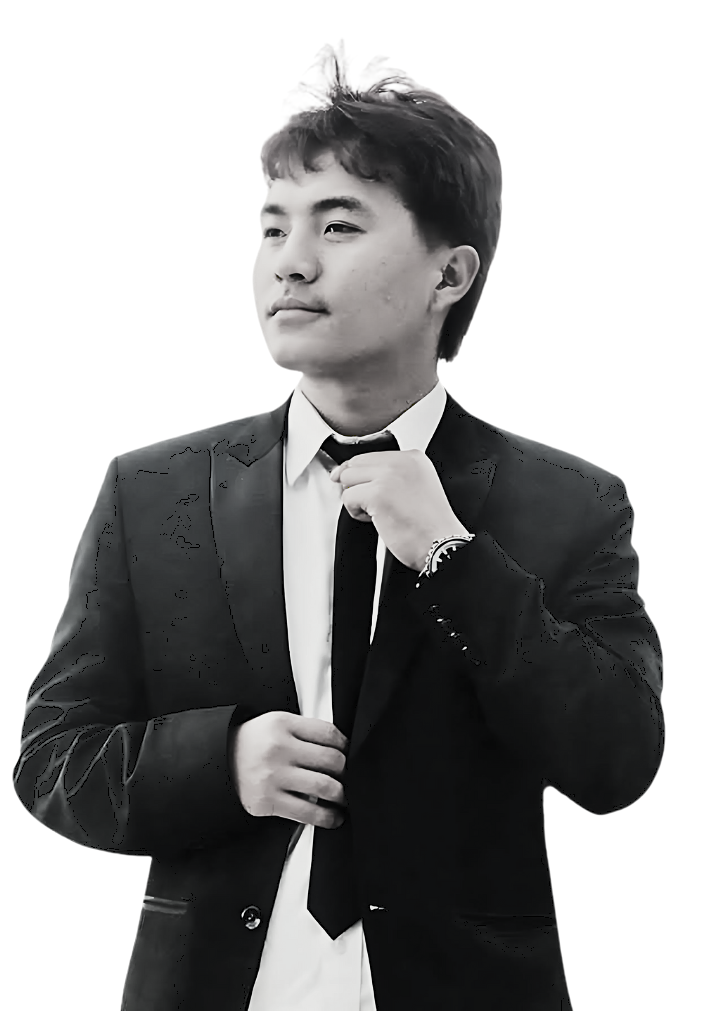
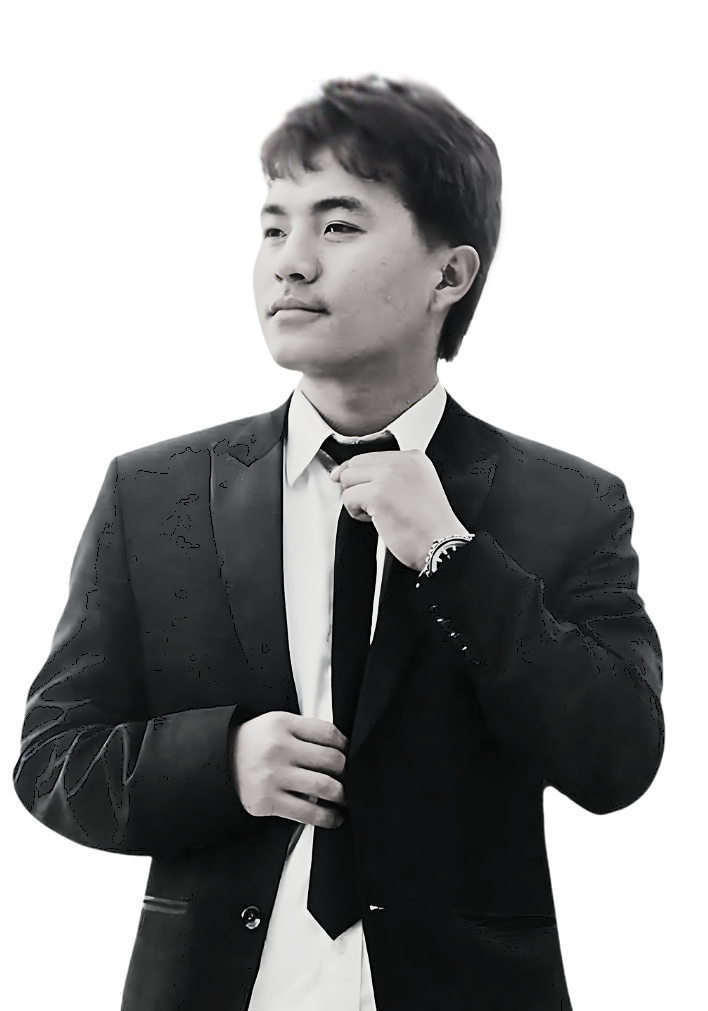
5th commit: Porject update

Changed region(s): [[0.3729, 0.0307, 0.6525, 0.1533]]

diff --git a/index.html b/index.html
@@ -53,7 +53,8 @@
     
     <section id="about" class="about">
         <h2>About Me</h2>
-        <p>I am a Multimedia Expert with expertise in video editing, graphic design, and web development. I hold a Bachelor's degree in Information Technology.</p>
+        <p>I’m a tech-savvy creative powerhouse with 5+ years of crafting stunning visuals as a Senior Video Editor & Graphics Designer. From cinematic edits and viral social media shorts to thumb-stopping thumbnails and sleek logos, I bring stories to life. Armed with a Bachelor’s in IT, I also code my way into front-end web development, merging creativity with tech to build visually stunning, user-friendly experiences. Let’s create something unforgettable!
+        </p>
     </section>
 
     <section id="services" class="services">
@@ -81,26 +82,35 @@
         <h2>My Projects</h2>
         <div class="portfolio-gallery">
             <div class="portfolio-item">
-                <img src="project1.jpg" alt="Project 1">
-                <div class="overlay">
-                    <h3>Project 1</h3>
-                    <p>A brief description of Project 1.</p>
+                <div class="video-container">
+                    <iframe width="322" height="322" src="https://www.youtube.com/embed/6ZLJTTmJ2_Y?si=FAd7ae-PwOffa9QM" title="YouTube video player" frameborder="0" allow="accelerometer; autoplay; clipboard-write; encrypted-media; gyroscope; picture-in-picture; web-share" referrerpolicy="strict-origin-when-cross-origin" allowfullscreen></iframe>
                 </div>
             </div>
             <div class="portfolio-item">
-                <img src="project2.jpg" alt="Project 2">
-                <div class="overlay">
-                    <h3>Project 2</h3>
-                    <p>A brief description of Project 2.</p>
+                <div class="video-container">
+                    <iframe width="322" height="322" src="https://www.youtube.com/embed/Rg9kbZoacsI?si=4lB_n5UB3RbUXuL1" title="YouTube video player" frameborder="0" allow="accelerometer; autoplay; clipboard-write; encrypted-media; gyroscope; picture-in-picture; web-share" referrerpolicy="strict-origin-when-cross-origin" allowfullscreen></iframe>
+                
                 </div>
+            </div> 
+            <div class="portfolio-item">
+                <div class="video-container">
+                    <iframe width="322" height="322" src="https://www.youtube.com/embed/cxGo8fi0o9k" title="YouTube video player" frameborder="0" allow="accelerometer; autoplay; clipboard-write; encrypted-media; gyroscope; picture-in-picture; web-share" referrerpolicy="strict-origin-when-cross-origin" allowfullscreen></iframe>
+                </div>
+                
             </div>
             <div class="portfolio-item">
-                <img src="project3.jpg" alt="Project 3">
-                <div class="overlay">
-                    <h3>Project 3</h3>
-                    <p>A brief description of Project 3.</p>
+                <div class="video-container">
+                    <iframe width="322" height="322" src="https://www.youtube.com/embed/y_p2L5za8pM" title="YouTube video player" frameborder="0" allow="accelerometer; autoplay; clipboard-write; encrypted-media; gyroscope; picture-in-picture; web-share" referrerpolicy="strict-origin-when-cross-origin" allowfullscreen></iframe>
                 </div>
+                
             </div>
+            <div class="portfolio-item">
+                <div class="video-container">
+                    <iframe width="322" height="322" src="https://www.youtube.com/embed/6ZLJTTmJ2_Y?si=FAd7ae-PwOffa9QM" title="YouTube video player" frameborder="0" allow="accelerometer; autoplay; clipboard-write; encrypted-media; gyroscope; picture-in-picture; web-share" referrerpolicy="strict-origin-when-cross-origin" allowfullscreen></iframe>
+                </div>
+                
+            </div>
+            
         </div>
     </section>
     

diff --git a/styles.css b/styles.css
@@ -58,10 +58,10 @@ body {
     align-items: center;    
 }
 .sudip-header-photo img {
-    margin-left: 80px;
-    margin-top: 150px;
-    height: 700px;
-    width: 500px;
+    margin-left: 15vh;
+    margin-top: 20vh;
+    height: 90vh;
+    width: 70vw;
     filter: grayscale(0.5) contrast(1.2);
 
 }
@@ -188,7 +188,7 @@ nav .btn:hover {
 
 #about p {
     font-size: 20px;
-    max-width: 800px;
+    max-width: 1030px;
     margin: 0 auto;
     line-height: 1.8;
 }
@@ -268,11 +268,16 @@ nav .btn:hover {
     margin-top: 20px;
 }
 
+.video-container iframe {
+    border-radius: 15px;
+}
 .portfolio-item {
     position: relative;
     overflow: hidden;
+    height: 35vh;
+    width: 17vw;
     border-radius: 8px;
-    box-shadow: 0 10px 20px rgba(0, 0, 0, 0.2);
+    box-shadow: 0 10px 20px rgba(255, 255, 255, 0.2);
     transition: transform 0.3s ease, box-shadow 0.3s ease;
 }
 
@@ -286,6 +291,7 @@ nav .btn:hover {
 .portfolio-item:hover {
     transform: translateY(-10px);
     box-shadow: 0 20px 30px rgba(0, 0, 0, 0.3);
+    
 }
 
 .portfolio-item:hover img {
